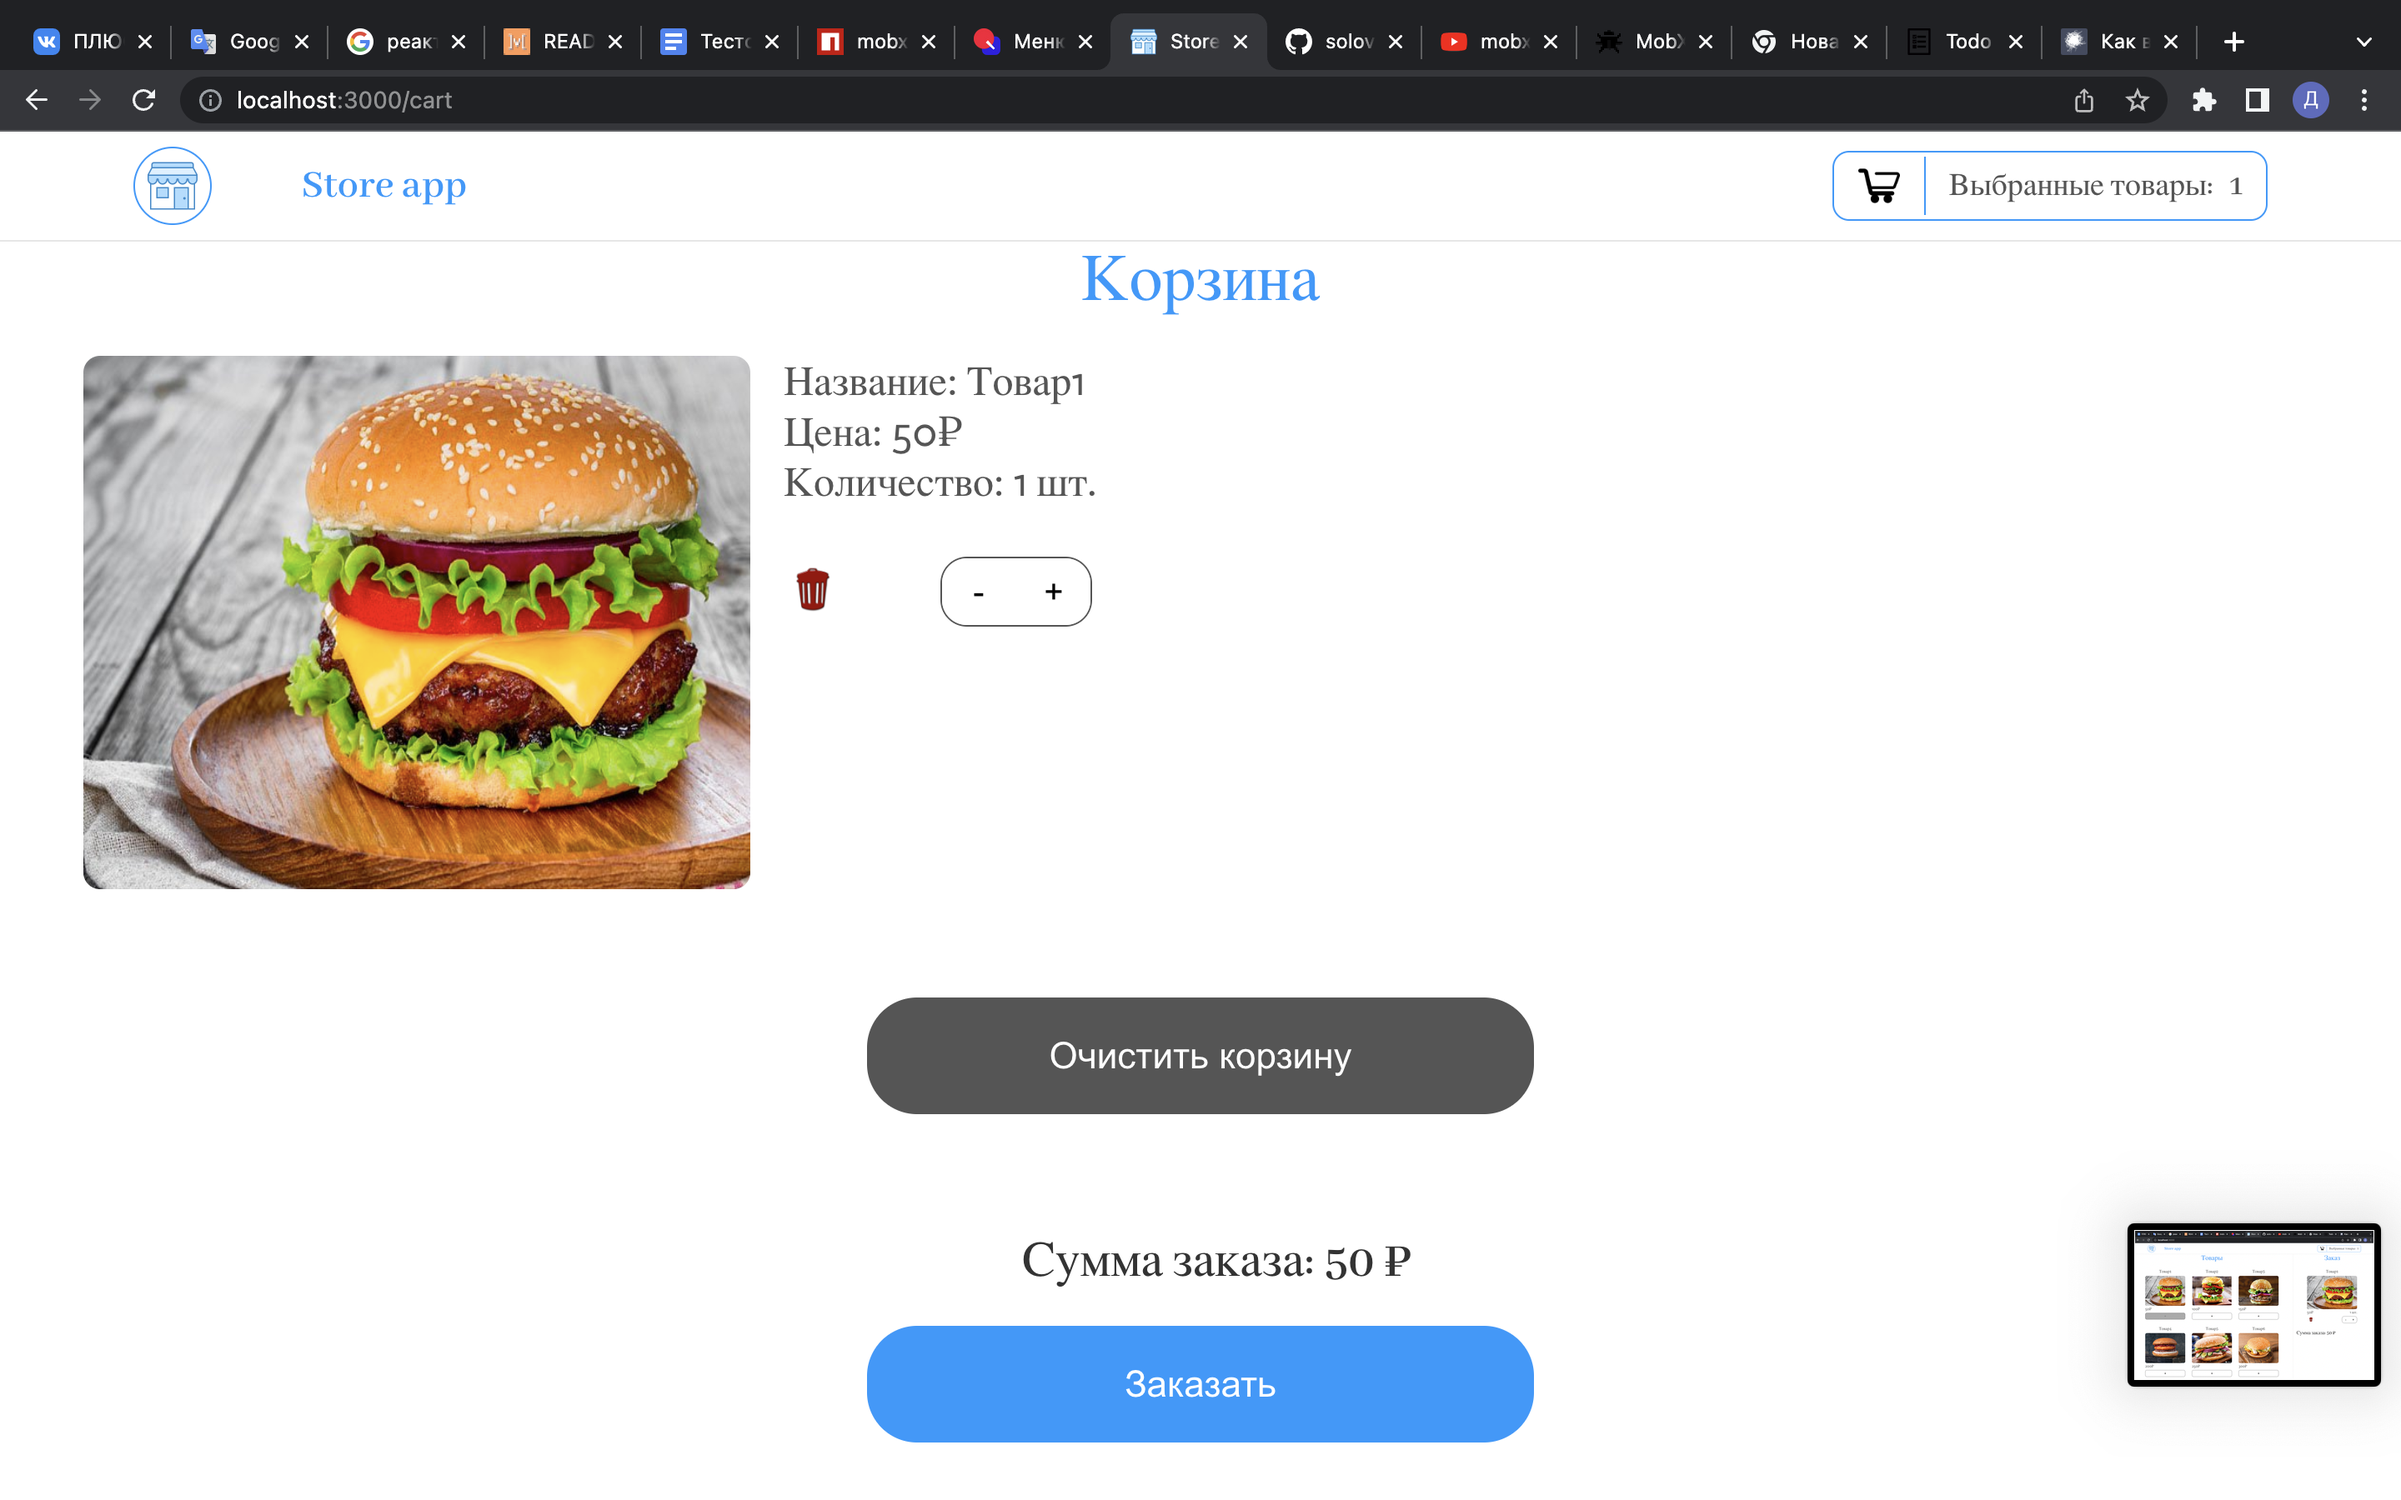
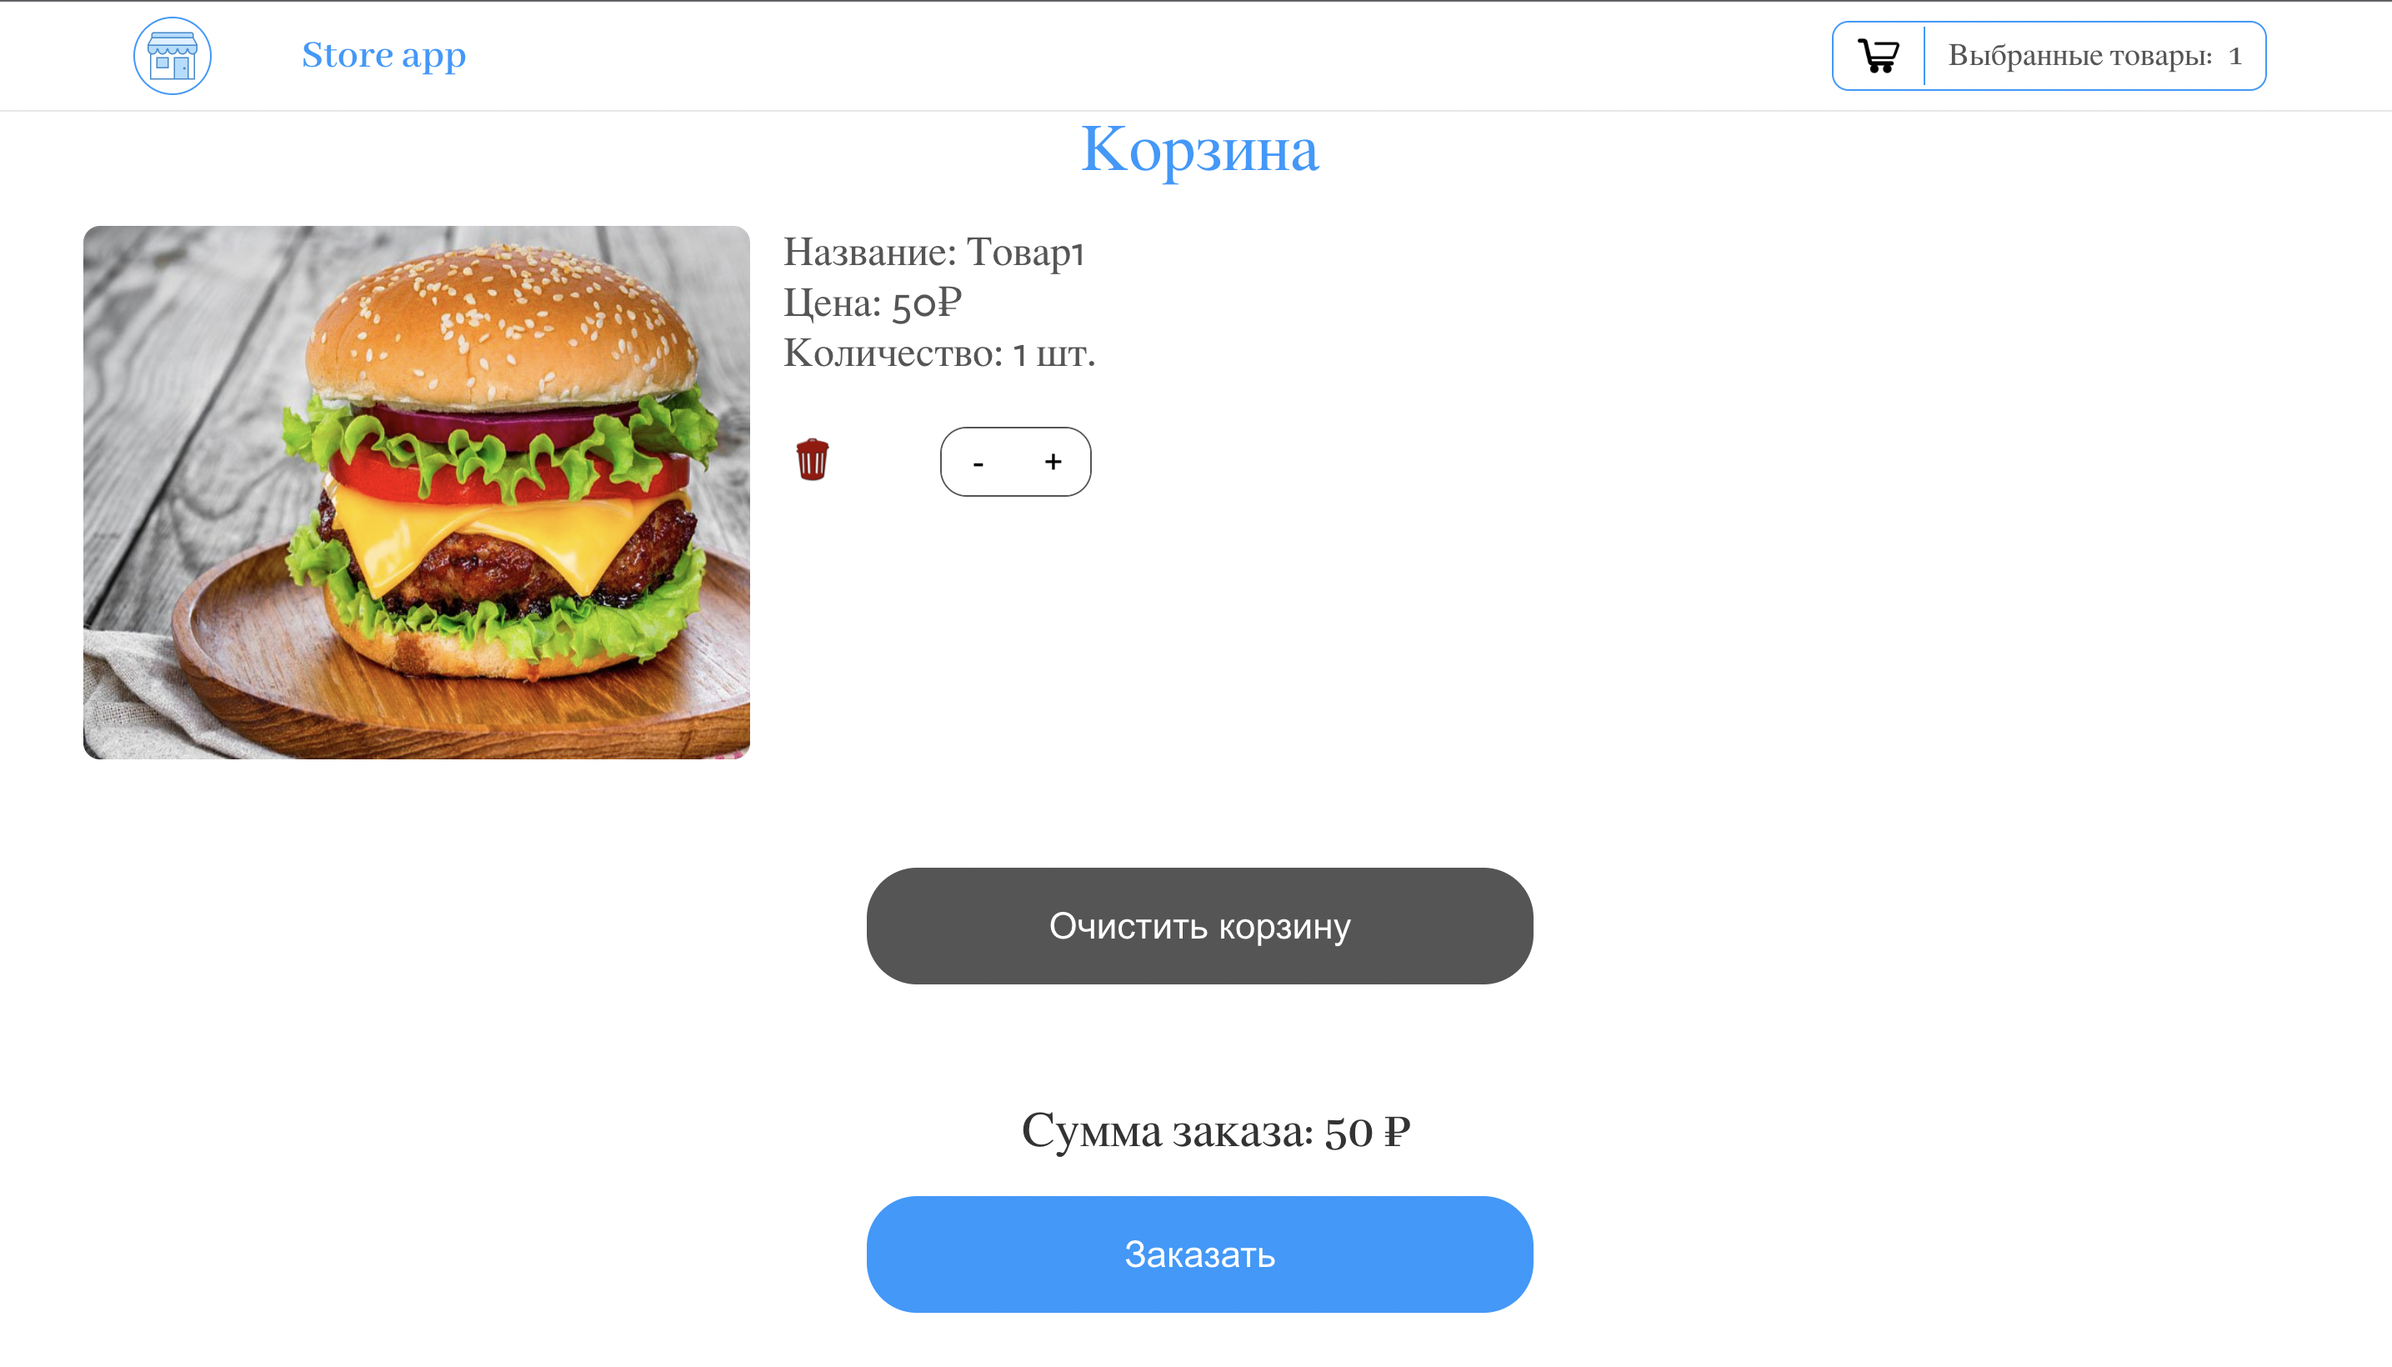
update Readme.md

diff --git a/README.md b/README.md
@@ -2,8 +2,8 @@
 
 # Store app
 
-[![Header](https://github.com/solovpro/todo-list/raw/master/src/assets/img/app-readme-dark.png)](https://solovpro.github.io/store-app/)
-[![Header](https://github.com/solovpro/todo-list/raw/master/src/assets/img/app-readme-light.png)](https://solovpro.github.io/store-app/)
+[![Header](https://github.com/solovpro/store-app/raw/master/src/assets/img/app-image-1.png)](https://solovpro.github.io/store-app/)
+[![Header](https://github.com/solovpro/store-app/raw/master/src/assets/img/app-image-2.png)](https://solovpro.github.io/store-app/)
 
 [//]: # (### Store app)
 <div align="start">
